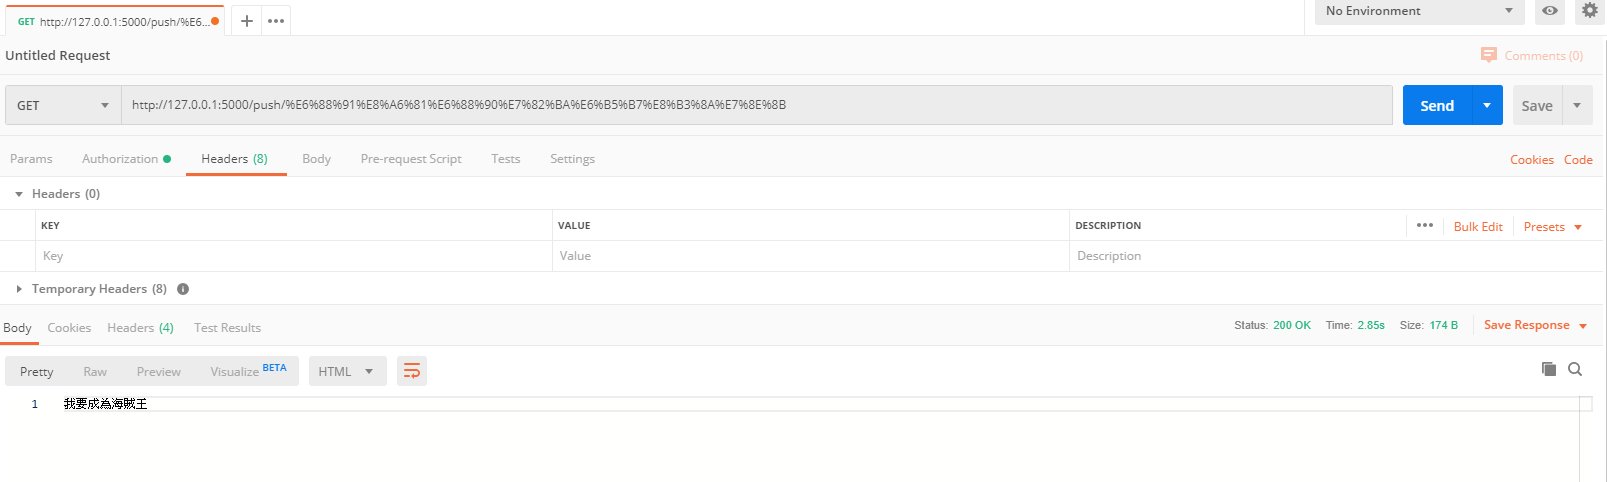
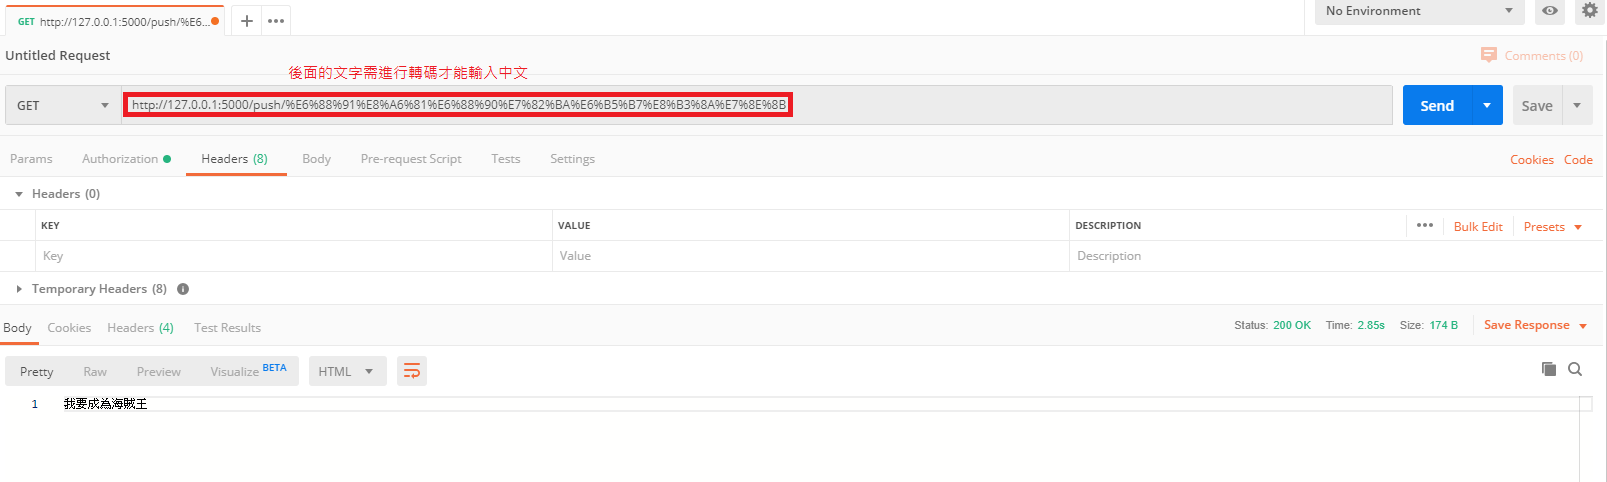
update
update readme.md and picture

Changed region(s): [[0.0622, 0.1245, 0.4978, 0.249]]

diff --git a/Module/Api.py b/Module/Api.py
@@ -12,15 +12,15 @@ Services = None
 # 2. request.values.get(‘name’)
 # 3. def index_id(id)
 # get /store
+# http: // www.example.com / myapplication / page.html?x = y
+# request get method
+# path             /page.html
+# script_root      /myapplication
+# base_url         http://www.example.com/myapplication/page.html
+# url              http://www.example.com/myapplication/page.html?x=y
+# url_root         http://www.example.com/myapplication/
 @app.route('/push/<message>', methods=["GET"])
 def get_store(message):
-    # http: // www.example.com / myapplication / page.html?x = y
-    # request get method
-    # path             /page.html
-    # script_root      /myapplication
-    # base_url         http://www.example.com/myapplication/page.html
-    # url              http://www.example.com/myapplication/page.html?x=y
-    # url_root         http://www.example.com/myapplication/
     g.request_started = time.time()
     rs = Services.push(message, request)
     return rs
@@ -32,10 +32,12 @@ def home():
 
 @app.before_request
 def before_request():
+    # 開始時間
     g.start = time.time()
 
 @app.after_request
 def after_request(response):
+    # 結束時間
     query_time = time.time() - g.start
     Services.update_query_time(query_time)
     return response

diff --git a/README.md b/README.md
@@ -4,17 +4,59 @@
 ![流程圖](Resource/flow.png)
 
 ### 功能圖
+1. 先透過postman或直接在瀏覽器上面輸入對應的網址觸發api的街口後
+![postman](Resource/postman.PNG)
+
+2. 虛擬助手在這時就會跳出來跟你說別人輸入了什麼訊息給你
+![luffy](Resource/result.PNG)
 
 ### 使用到的技術
 
 **WebSocket**
 * 是一種讓瀏覽器與伺服器進行一段互動通訊的技術。這個 API 在不必輪詢（poll）伺服器下，讓使用者傳送訊息至伺服器並接受事件驅動回應。
-* ws://127.0.0.1:7777
+* [進行websocket 串接測試網址](http://websocket.org/echo.html) (Location : ws://127.0.0.1:7777)
+* WebSocket GitHub 上的Method
 ![websocket method](Resource/websocketMethod.PNG)
 
 **Flask框架**
 * 是一個使用 Python 撰寫的輕量級 Web 應用程式框架，由於其輕量特性，也稱為 micro-framework（微框架）
+* push就是一個接口，當使用者輸入對應的ip/push/message(message為輸入參數)，就會倒到該function內
+```
+@app.route('/push/<message>', methods=["GET"])
+def get_store(message):
+    g.request_started = time.time()
+    rs = Services.push(message, request)
+    return rs
+```
 
+* app.before_request 在請求前執行該function，這邊是儲存開始時間，用來計算使用者尋訪的api的整體時間
+```
+@app.before_request
+def before_request():
+    # 開始時間
+    g.start = time.time()
+```
+
+* app.after_request 在請求後執行該function
+```
+@app.after_request
+def after_request(response):
+    # 結束時間
+    query_time = time.time() - g.start
+    Services.update_query_time(query_time)
+    return response
+```
+
+
+**連接MySQL 、 sqlite3**
+> - 資料庫連線
+>> - ```MySQLdb.connect(host=host, user=user, password=password, db=db, charset="utf8")```
+> - 進行操作(新增、刪除、修改、查詢)
+> - 執行事務(確保資料的一致性)
+> - commit(向DB發出訊號已完成更改)
+> - rollback(當有需求視需要進行一連串的DB操作，當有一個環節出錯了，原本執行完成的也該恢復初始值)
+> - close(段開連結)
+> - 處理錯誤(warning, error, interfaceError....)
 
 **Vue**
 
